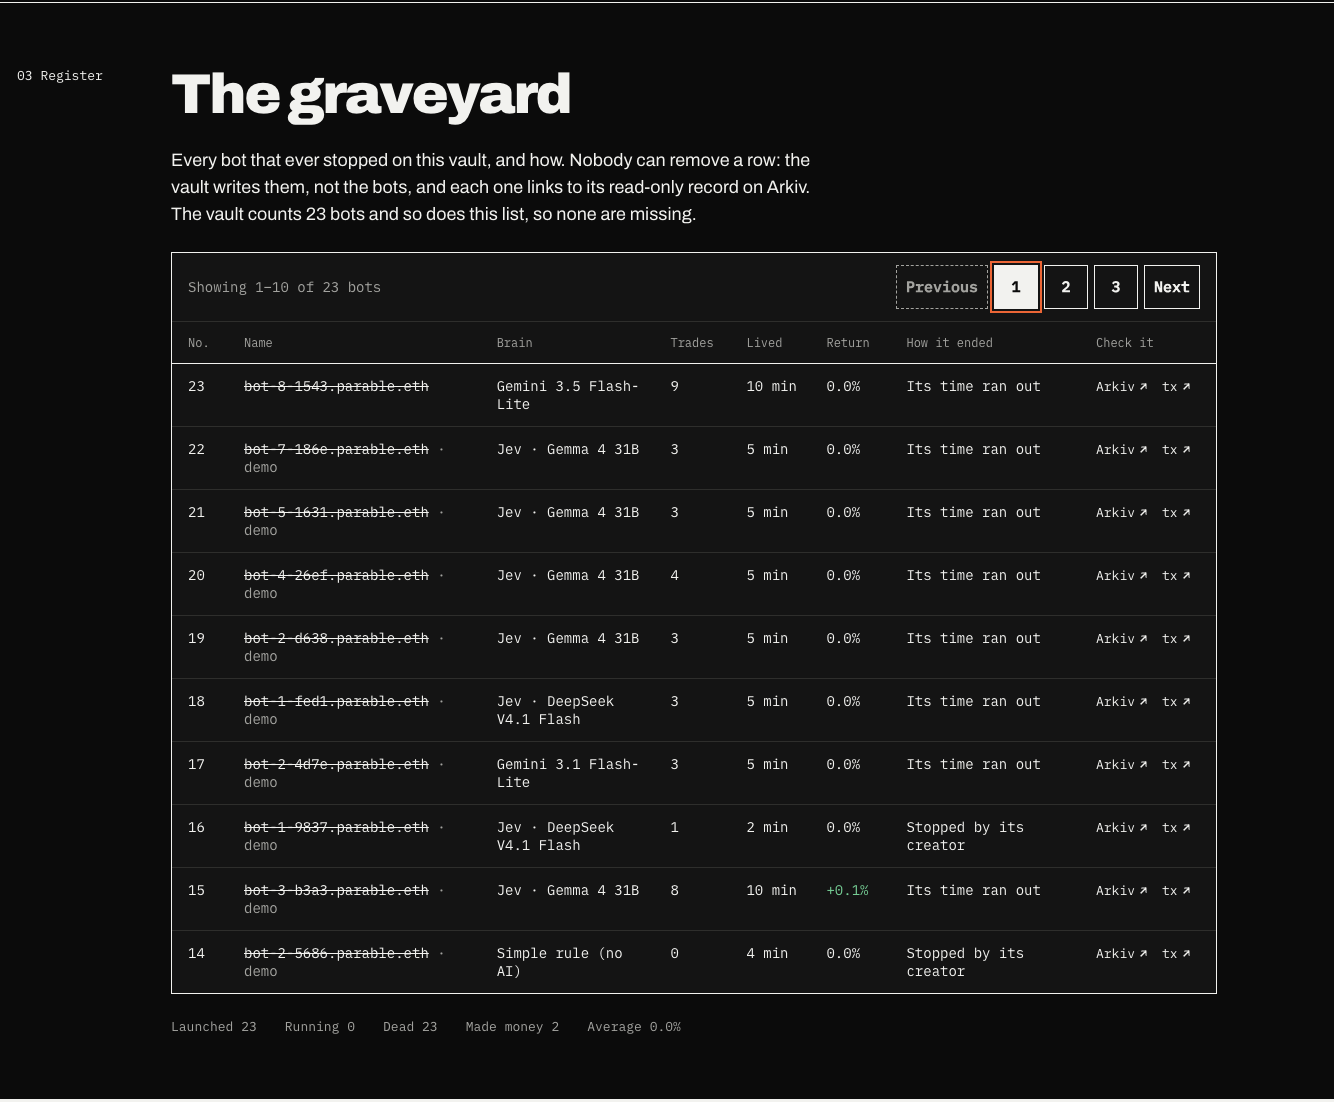
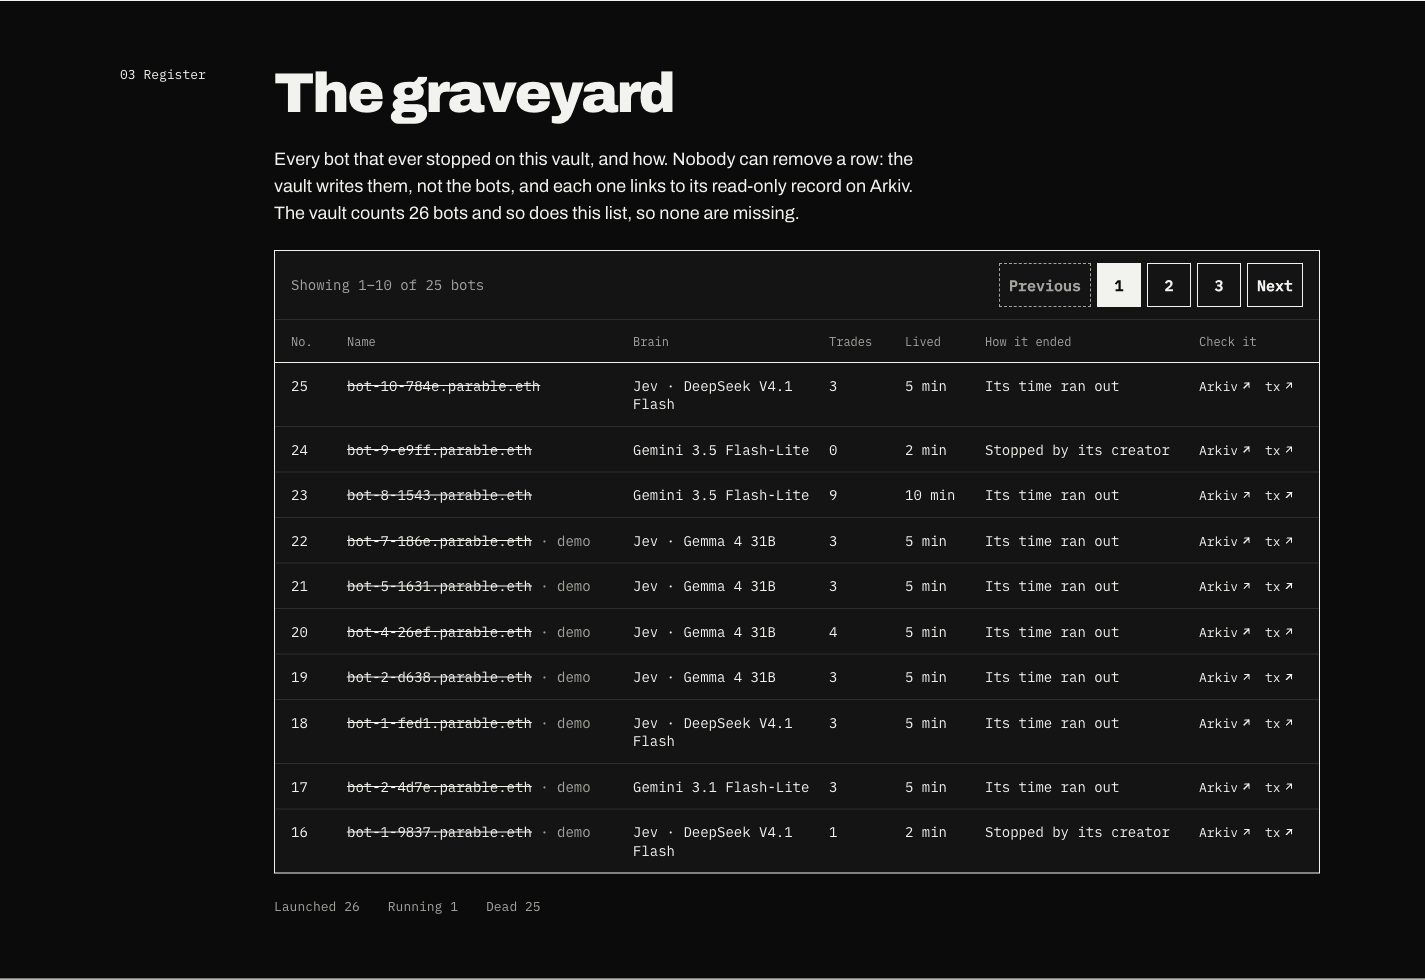
README: fresh Graveyard and Telemetry screenshots; telemetry links no longer break mid-word

diff --git a/frontend/src/dashboard/Telemetry.tsx b/frontend/src/dashboard/Telemetry.tsx
@@ -102,7 +102,7 @@ export function Telemetry({ open, onClose, info, bots, botEvents, series, swarm,
               <span title={b.ens_name}>{b.ens_name.replace('.parable.eth', '')}{swarmIds.has(b.bot_id) && <span className="muted"> · swarm</span>}</span>
               <span>{brainName(b.rules.brain)}</span><span>{usd(b.equity_usd)}</span>
               <span className={trend(marketBps)}>{pct(marketBps)}</span><span>{t}</span><span className={r ? 'refused' : ''}>{r}</span>
-              <span style={{ display: 'flex', gap: 10 }}><OutLink href={address ? `${address}${b.bot_address}` : null}>wallet</OutLink><OutLink href={b.tx_url}>birth</OutLink></span>
+              <span className="links" style={{ gap: 10 }}><OutLink href={address ? `${address}${b.bot_address}` : null}>wallet</OutLink><OutLink href={b.tx_url}>birth</OutLink></span>
             </div>)}
           </div>
           <div className="box rows log">

diff --git a/frontend/src/style.css b/frontend/src/style.css
@@ -98,7 +98,8 @@ svg text::selection { fill: #fff; }
 .grave-pages > span { color: var(--grey); }
 .grave-page-buttons { display: flex; flex-wrap: wrap; align-items: center; gap: 6px; }
 .grave-page-buttons .btn { min-width: 44px; height: 44px; padding: 0 9px; }
-.links { display: flex; gap: 12px; }
+.links { display: flex; flex-wrap: wrap; gap: 12px; }
+.links a, .links > * { overflow-wrap: normal; white-space: nowrap; }
 .deaths .row { grid-template-columns: minmax(0, 1fr) auto auto; }
 .log .row { grid-template-columns: 76px minmax(0, 1fr) auto; }
 .legend { display: flex; flex-wrap: wrap; gap: 28px; font: 13px var(--mono); color: var(--grey); }

diff --git a/README.md b/README.md
@@ -43,11 +43,13 @@ Anyone can sell an AI trading bot with a great track record: launch 20 bots, del
 4. **[Try to cheat](https://parable-demo.centralindia.cloudapp.azure.com/#cheat).** Dry-run an unregistered trade, an over-limit trade or a second-wallet attempt against the vault. The dashboard shows the contract response and a command you can run yourself.
 
 <details>
-<summary>See the launch form and Graveyard</summary>
+<summary>See the launch form, Graveyard and Telemetry</summary>
 
 ![Launch form showing the model, trade cap, loss limit and World ID approval](docs/images/launch.png)
 
 ![Graveyard showing ten stopped bots per page with explorer links](docs/images/graveyard.png)
+
+![Telemetry panel with live bot numbers, charts and every vault event](docs/images/telemetry.png)
 
 </details>
 
